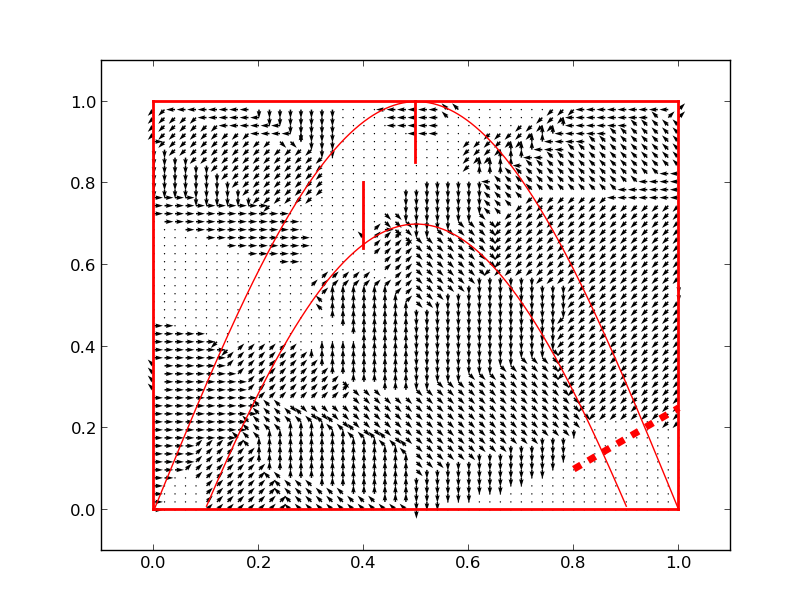
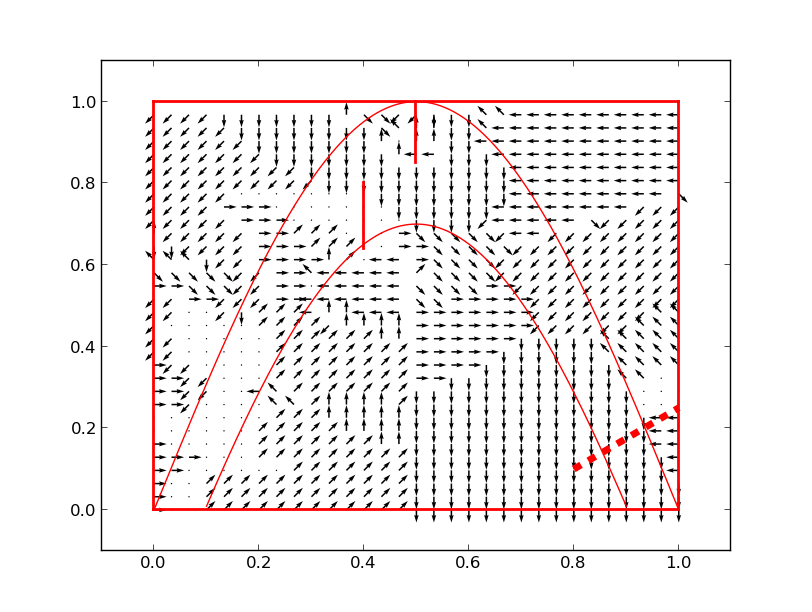
Some test changes and merge fixes

Changed region(s): [[0.1847, 0.1552, 0.8621, 0.8693]]

diff --git a/p2/race.py b/p2/race.py
@@ -187,9 +187,9 @@ def average_trainings_last_trials(eps, decrease=False):
     monaco = track.track()
     ferrari = car.car()
         
-    n_trials = 1000
+    n_trials = 1
     n_time_steps = 1000  # maximum time steps for each trial
-    n_indep_cars = 5.
+    n_indep_cars = 1.
     times = zeros(n_trials)
     avg_times = zeros(n_trials)
 
@@ -267,7 +267,11 @@ def train_and_show_navigation():
     n_trials = 2000
     n_time_steps = 1000  # maximum time steps for each trial
     ferrari.reset()
-    ferrari.plot_navigation(0)
+    figure(0)
+    xlim(-0.1,1.1)
+    ylim(-0.1,1.1)
+    monaco.plot_track()
+    ferrari.plot_navigation()
     for j in arange(n_trials):  
 
         # before every trial, reset the track and the car.

diff --git a/p2/car.py b/p2/car.py
@@ -75,7 +75,7 @@ class car:
 
     def plot_navigation(self):
         scale = 3
-        xx = 50
+        xx = 30
         x_dir = zeros((xx+1,xx+1))
         y_dir = zeros((xx+1,xx+1))
         actions = zeros((xx+1,xx+1))
